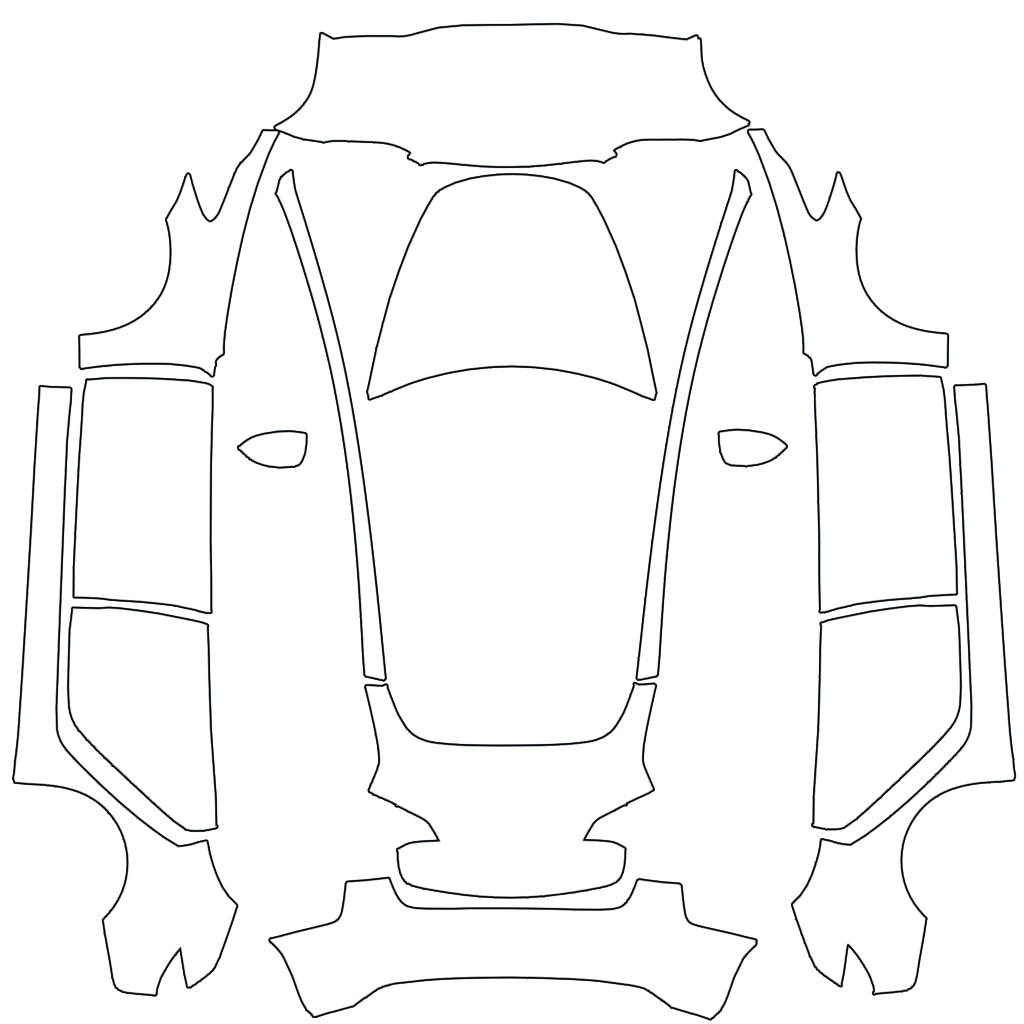
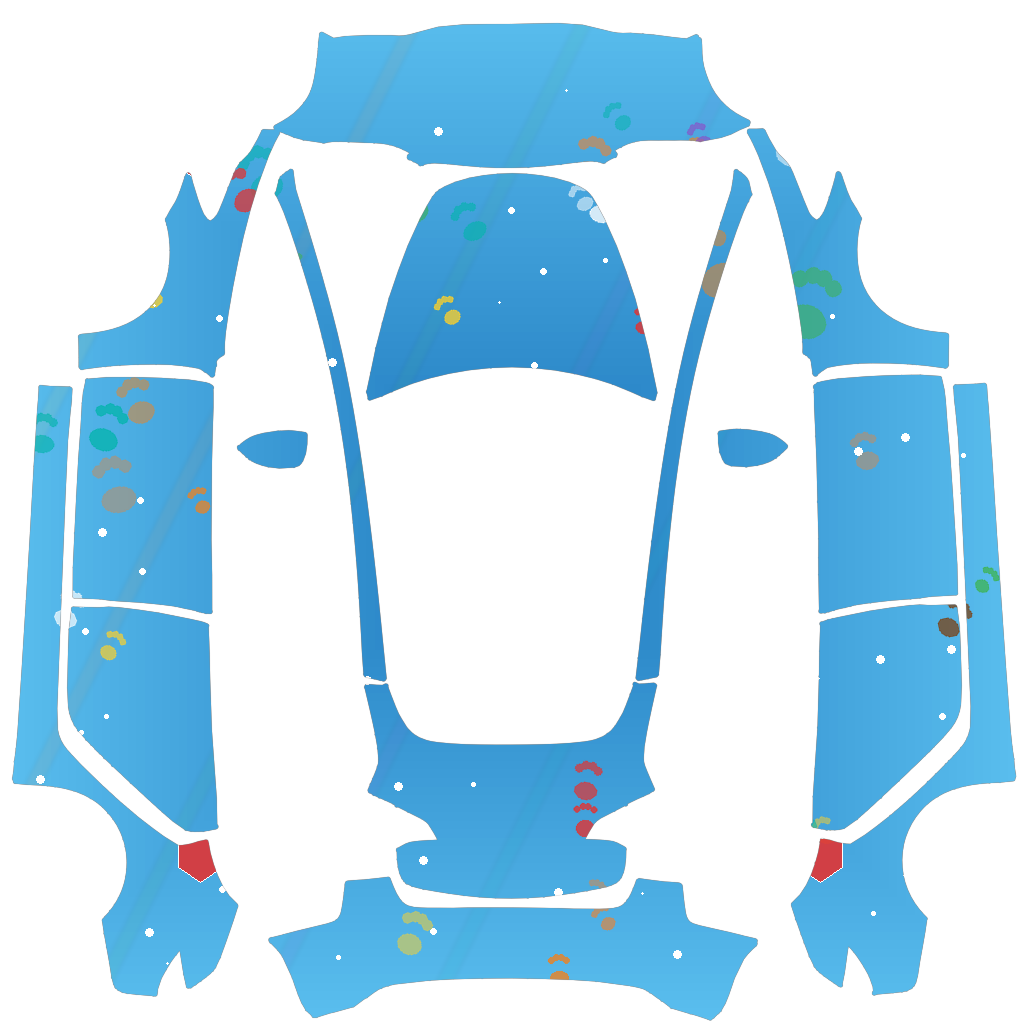
Fix blank wrap: remove template white-pixel overlay that hid design
The alpha_composite(template) call was painting the pure-white template
on top of the design, making the result appear blank. Now only the
template alpha channel is used as a cutout mask for the design layer.

https://claude.ai/code/session_01NcxfsitGUhZivHFUmuLhHh

diff --git a/generate_wrap.py b/generate_wrap.py
@@ -145,18 +145,13 @@ def add_large_center_paw(img: Image.Image) -> None:
 
 def apply_template_mask(design: Image.Image, template: Image.Image) -> Image.Image:
     """
-    Composite the design so only the opaque (wrappable) areas from the
-    template remain visible. Semi-transparent template pixels are blended
-    to preserve the car body line-art overlay.
+    Keep only the parts of the design that fall inside the car body shape
+    defined by the template's alpha channel. The template pixels themselves
+    are pure white, so we use only the alpha as a cutout mask.
     """
     result = Image.new("RGBA", (SIZE, SIZE), (0, 0, 0, 0))
-
-    # Paste design using template alpha as mask
     template_alpha = template.split()[3]
     result.paste(design, mask=template_alpha)
-
-    # Overlay the template line-art on top
-    result.alpha_composite(template)
     return result
 
 
